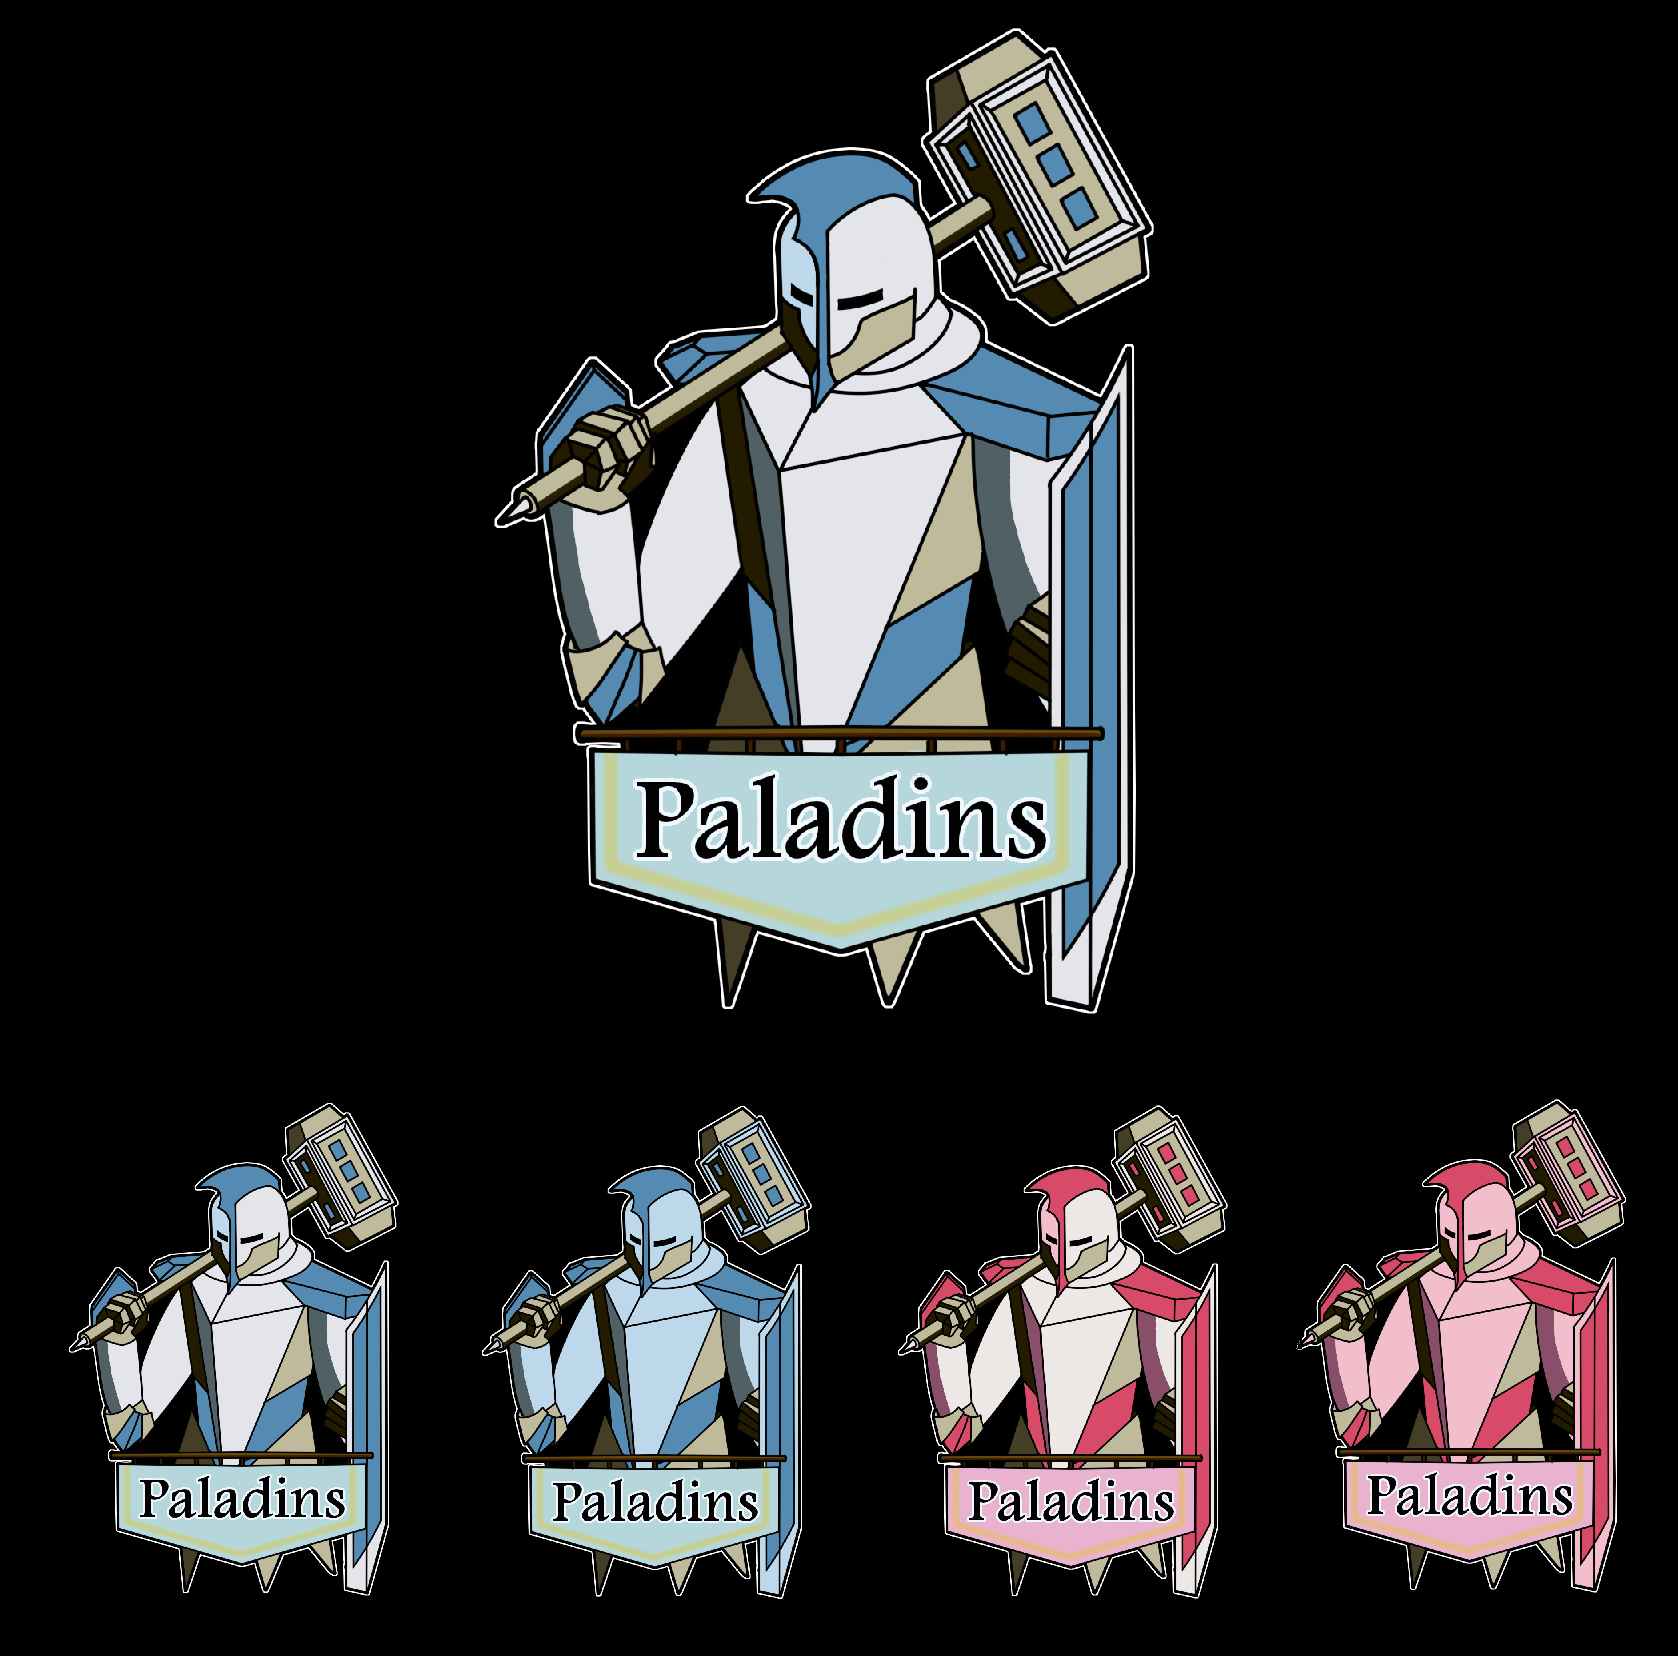
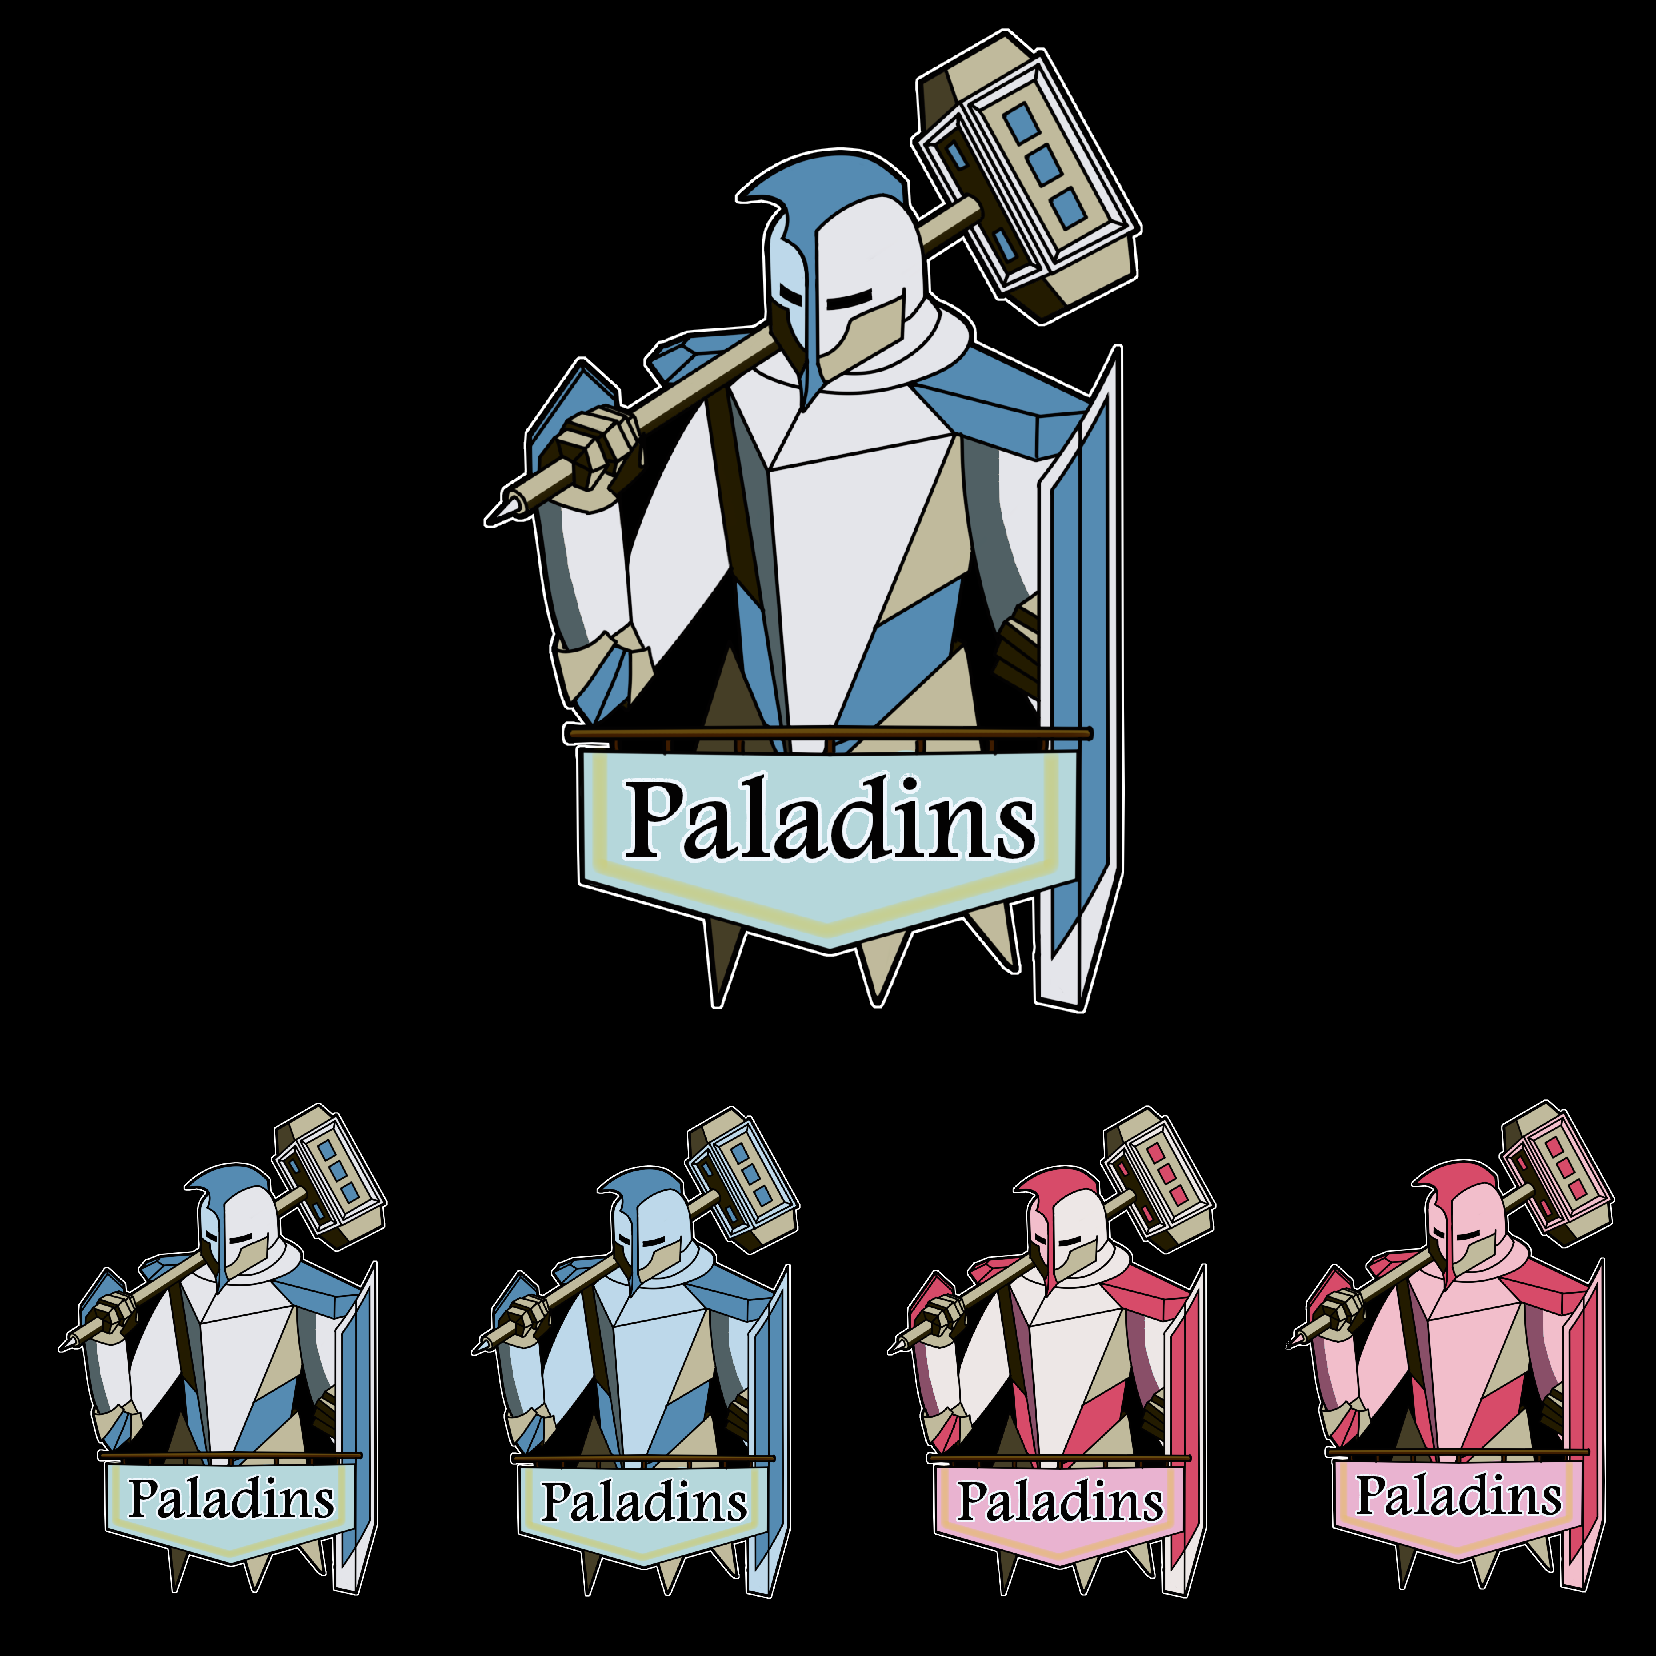
corrijo relaciones de aspecto

diff --git a/estilos.css b/estilos.css
@@ -74,19 +74,21 @@ a img {
 	margin: 0 auto;
 }
 
-#sirena, #howl, #dama-y-dragon, #paladin, #guardian, #richard, #princesa, #warrior-souls, #anubis {
+#sirena, #howl, #dama-y-dragon, #guardian, #richard, #princesa, #warrior-souls, #anubis {
 	max-width: 100%;
 	max-height: 100vh;
 }
 
 #cthulhu{
-	max-height: calc(237500vh / 1350);
-	height: calc(237500vh / 1350);
+	max-width: 100%;
+	max-height: calc(142320vw / 1080);
+	height: calc(237200vh / 1350);
 }
 
 #paladin{
-	max-height: 130vh;
+	max-height: 60vw;
 	height: 130vh;
+	max-width: 100%;
 }
 
 ul{
